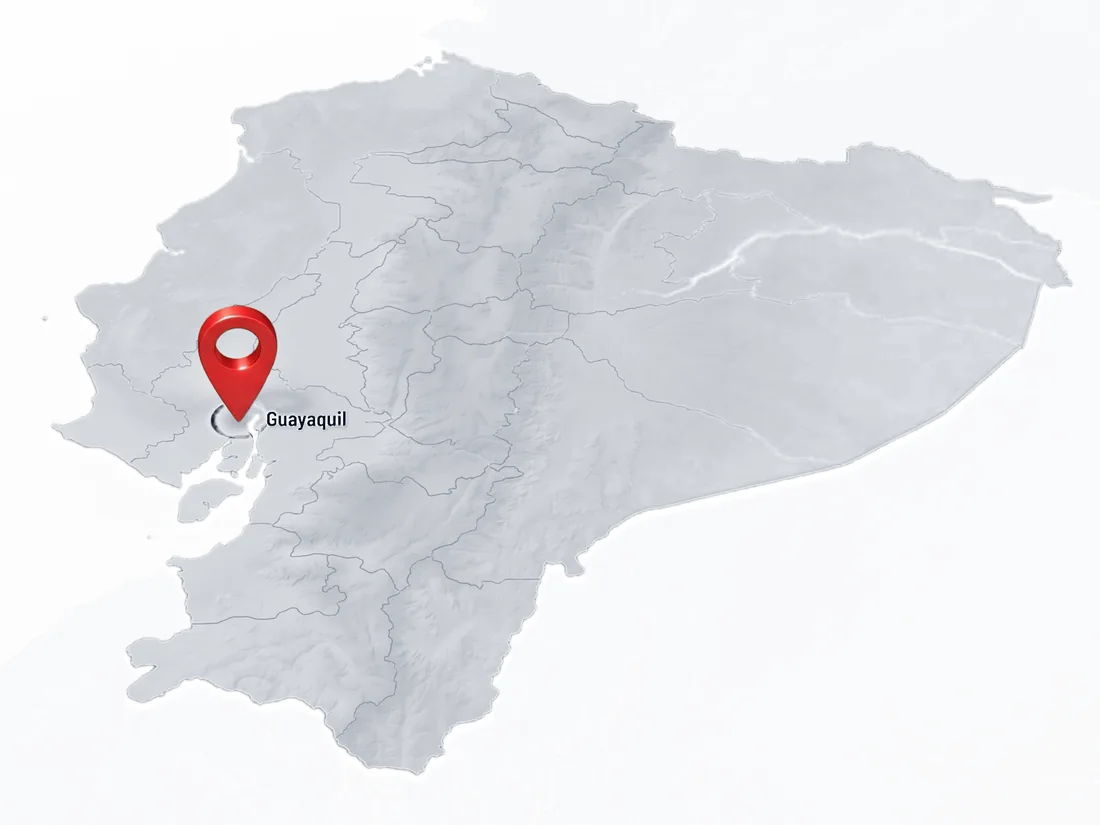
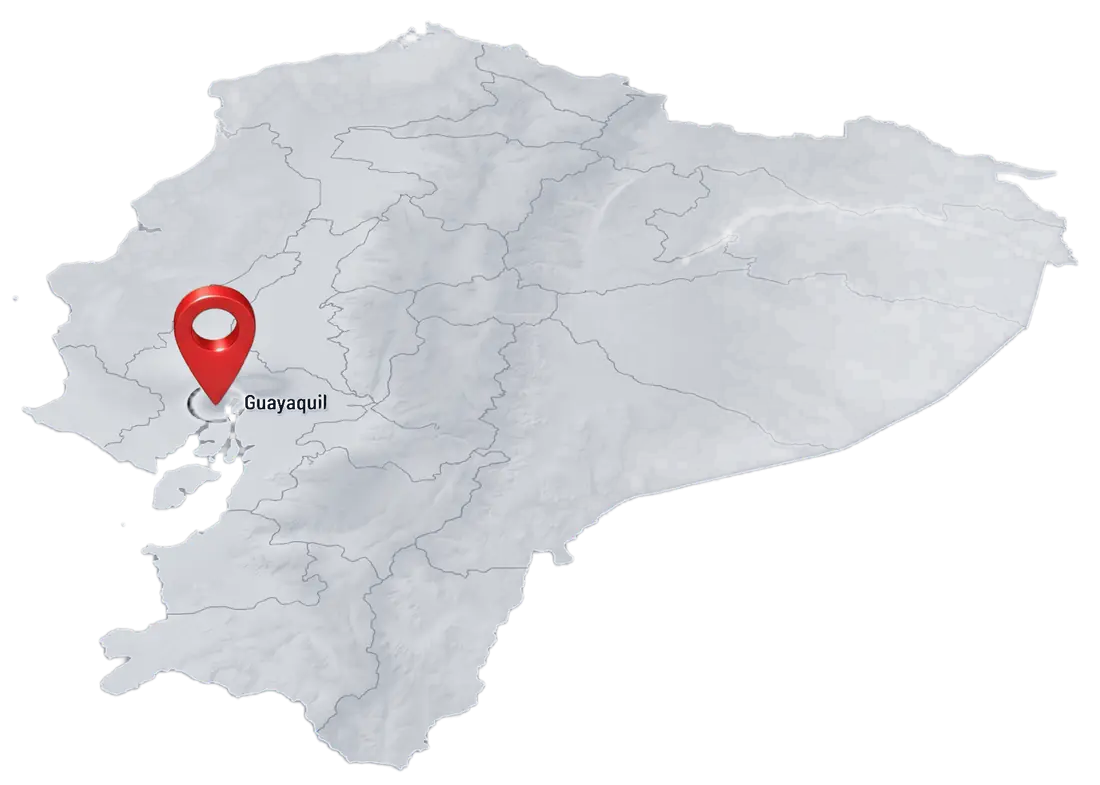
Agrandar el mapa y equilibrarlo con el texto
Mapa sin tarjeta y con transparencia sobre el fondo de la
sección, en columnas iguales; solo el Ecuador y el pin.

Claude-Session: https://claude.ai/code/session_01WCncyZYxeSnFyprQxPLdkX

diff --git a/assets/css/styles.v1.css b/assets/css/styles.v1.css
@@ -282,14 +282,12 @@ strong { font-weight: 650; }
 .about-facts li { display: flex; gap: 14px; align-items: flex-start; }
 .about-facts svg { width: 22px; height: 22px; flex: none; margin-top: 3px; fill: none; stroke: var(--red-ink); stroke-width: 1.8; stroke-linecap: round; stroke-linejoin: round; }
 .about-facts strong { display: block; font-family: var(--font-display); font-size: 0.9375rem; color: var(--ink); }
-.about-map {
-  position: relative; margin: 0; overflow: hidden; aspect-ratio: 4 / 3;
-  background: #fff; border: 1px solid var(--line); border-radius: var(--radius-l); box-shadow: var(--shadow-1);
-}
-.about-map img { width: 100%; height: 100%; object-fit: cover; }
+.about-map { margin: 0; }
+.map-frame { position: relative; width: 100%; aspect-ratio: 1100 / 785; }
+.map-frame img { width: 100%; height: 100%; object-fit: contain; }
 /* Pulso bajo la punta del pin (coordenadas relativas a la imagen) */
 .map-pulse {
-  position: absolute; left: 21.8%; top: 50.6%; width: 44px; height: 44px; margin: -22px 0 0 -22px;
+  position: absolute; left: 19.7%; top: 51%; width: 44px; height: 44px; margin: -22px 0 0 -22px;
   border-radius: 50%; border: 2px solid rgb(249 0 49 / 0.55); pointer-events: none;
   transform: scale(0.3) rotateX(62deg); opacity: 0;
   animation: map-pulse 2.6s var(--ease-out) infinite;
@@ -299,8 +297,10 @@ strong { font-weight: 650; }
   100% { transform: scale(1.8) rotateX(62deg); opacity: 0; }
 }
 @media (min-width: 860px) {
-  .about-grid { grid-template-columns: minmax(0, 1.1fr) minmax(0, 0.9fr); }
-  .about-map { max-width: 560px; justify-self: end; width: 100%; }
+  .about-grid { grid-template-columns: repeat(2, minmax(0, 1fr)); align-items: stretch; }
+  .about-text { align-content: center; }
+  /* El mapa sangra un poco a la derecha para igualar el peso visual del texto */
+  .about-map { align-self: center; margin-right: calc(-1 * min(3vw, 48px)); }
 }
 
 /* ---------- Productos ---------- */

diff --git a/index.html b/index.html
@@ -150,8 +150,10 @@
         </div>
         <!-- Mapa generado con IA y recoloreado a la paleta de la web. El pin marca la ciudad, no una dirección. -->
         <figure class="about-map reveal">
-          <img src="assets/img/mapa-ecuador-640.webp" srcset="assets/img/mapa-ecuador-640.webp 640w, assets/img/mapa-ecuador-1100.webp 1100w" sizes="(min-width: 860px) 520px, calc(100vw - 32px)" width="1100" height="825" loading="lazy" alt="Mapa del Ecuador con un marcador rojo sobre Guayaquil.">
-          <span class="map-pulse" aria-hidden="true"></span>
+          <div class="map-frame">
+            <img src="assets/img/mapa-ecuador-640.webp" srcset="assets/img/mapa-ecuador-640.webp 640w, assets/img/mapa-ecuador-1100.webp 1100w" sizes="(min-width: 860px) 50vw, calc(100vw - 32px)" width="1100" height="785" loading="lazy" alt="Mapa del Ecuador con un marcador rojo sobre Guayaquil.">
+            <span class="map-pulse" aria-hidden="true"></span>
+          </div>
         </figure>
       </div>
     </section>
